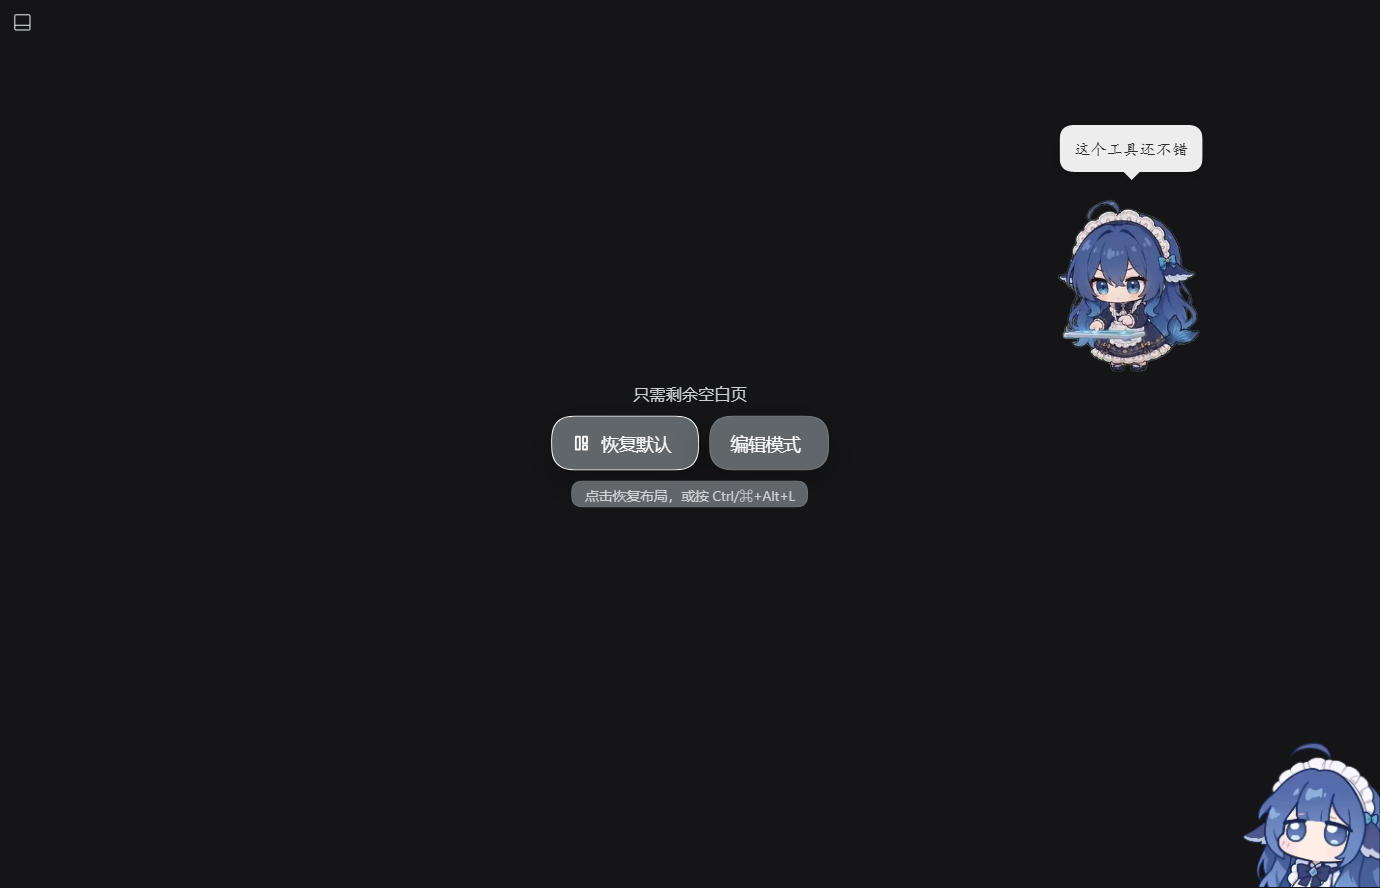
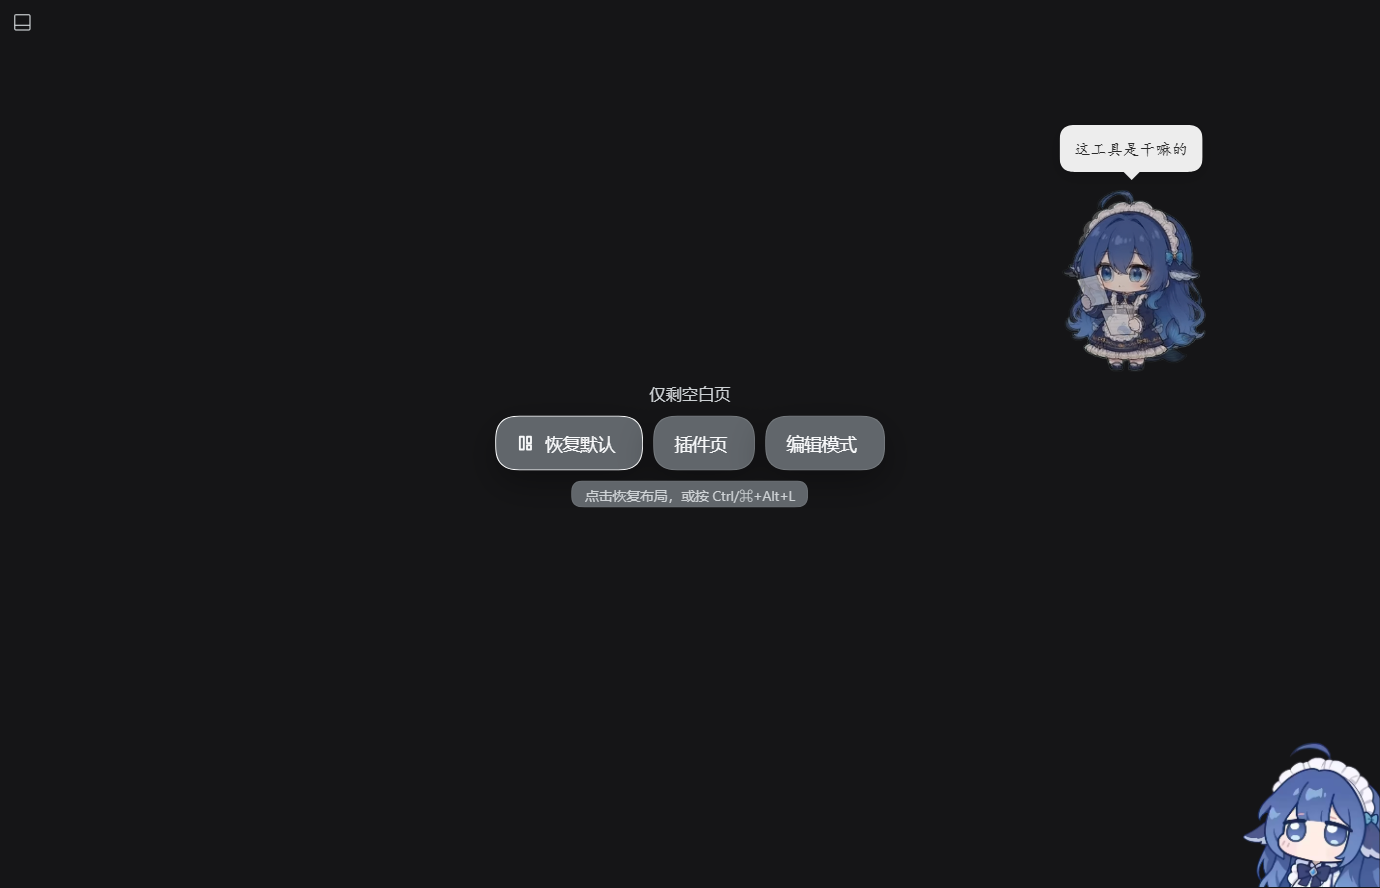
feat(dsh-layout): 空白页恢复入口改为 恢复默认/插件页/编辑模式 三枚并列
- 「插件页」先释放 hideCenter 再切面板，避免插件详情页所在中栏仍隐藏
- 空白页进入编辑模式时工具栏提示「当前无可见区域可拖拽」
- 坐标命中兜底改为遍历 [data-dshl-button] 直接 click，三枚按钮共用一套兜底
- 文档与空白页截图更新，版本 1.2.1

Changed region(s): [[0.3428, 0.4257, 0.6543, 0.5473], [0.7478, 0.2128, 0.8725, 0.4257], [0.779, 0.152, 0.8725, 0.1824]]

diff --git a/client.js b/client.js
@@ -73,6 +73,7 @@ window.__ModuleLoader__.load({
       shortcutHint: '快捷键：Ctrl/⌘+Alt+L 打开编辑浮层；再加 Shift 直接恢复默认布局。',
       offsetClamped: '偏移会自动限制，保证设置面板始终留在屏幕内。',
       blankHint: '点击恢复布局，或按 Ctrl/⌘+Alt+L',
+      nothingToDrag: '当前没有可见区域可拖拽，用预设或恢复默认',
       showAll: '显示全部',
       launcherOnBlank: '仅剩空白页',
     };
@@ -143,6 +144,7 @@ window.__ModuleLoader__.load({
       shortcutHint: 'Shortcuts: Ctrl/⌘+Alt+L opens the edit overlay; add Shift to restore the default layout.',
       offsetClamped: 'Offsets are clipped so the settings panel always stays on screen.',
       blankHint: 'Click to restore the layout, or press Ctrl/⌘+Alt+L',
+      nothingToDrag: 'No visible region to drag; use a preset or restore defaults',
       showAll: 'Show all',
       launcherOnBlank: 'Blank page',
     };
@@ -1264,23 +1266,19 @@ window.__ModuleLoader__.load({
         return () => window.removeEventListener('keydown', onKeyDown, true);
       }, [ui.editing]);
 
-      // 兜底点击通道：即使恢复按钮被 pointer-events/遮挡问题吃掉，按坐标命中同样能打开浮层
+      // 兜底点击通道：即使按钮被 pointer-events/遮挡问题吃掉，按坐标命中同样能触发
       React.useEffect(() => {
         const hitLauncher = (event) => {
           if (event.button !== 0 || event.defaultPrevented) return;
-          const launcher = document.querySelector('[data-dshl-launcher]');
-          if (launcher === null) return;
-          const rect = launcher.getBoundingClientRect();
-          if (event.clientX < rect.left || event.clientX > rect.right || event.clientY < rect.top || event.clientY > rect.bottom) return;
-          event.preventDefault();
-          event.stopPropagation();
-          // 空白页上的按钮直接恢复默认；其余情况打开编辑浮层（与按钮自身点击语义一致）
-          if (launcher.getAttribute('data-action') === 'reset') {
-            replaceConfig(null);
-            setEditing(false);
+          const buttons = [...document.querySelectorAll('[data-dshl-button]')];
+          for (const button of buttons) {
+            const rect = button.getBoundingClientRect();
+            if (event.clientX < rect.left || event.clientX > rect.right || event.clientY < rect.top || event.clientY > rect.bottom) continue;
+            event.preventDefault();
+            event.stopPropagation();
+            button.click();
             return;
           }
-          setEditing(true);
         };
         document.addEventListener('pointerdown', hitLauncher, true);
         document.addEventListener('mousedown', hitLauncher, true);
@@ -1333,7 +1331,11 @@ window.__ModuleLoader__.load({
         };
       }
       const placement = placementRef.current.value;
+      // 打开插件页：中栏被藏起来时先放出来，否则切过去也是空白
       const openPlugins = () => {
+        if (snapshot.config.columns.hideCenter) {
+          updateConfig((draft) => { draft.columns.hideCenter = false; });
+        }
         const layout = ctx !== null && ctx !== undefined && typeof ctx.get === 'function' ? ctx.get('layout') : undefined;
         if (layout === null || layout === undefined || typeof layout.selectPanel !== 'function') return;
         try {
@@ -1406,6 +1408,7 @@ window.__ModuleLoader__.load({
           style: { left: rect.left, top: rect.top, width: rect.width, height: rect.height },
         }, h('span', { className: 'dshl-editTag' }, labels[region] ?? region)))
         : null;
+      const visibleRegionCount = Object.keys(bounds.regions).length;
       const toolbar = ui.editing
         ? h('div', { className: 'dshl-toolbar' },
           h('span', { className: 'dshl-toolbarTitle' }, t('editLayer')),
@@ -1423,9 +1426,21 @@ window.__ModuleLoader__.load({
           }, label)),
           h('button', { type: 'button', className: 'dshl-btn', onClick: openPlugins }, t('openPlugins')),
           h('button', { type: 'button', className: 'dshl-btn', onClick: () => replaceConfig(null) }, t('reset')),
-          h('span', { className: 'dshl-itemSub' }, `${Math.round(config.columns.sidebarWidth)} / ${Math.round(config.columns.rightbarWidth)}`),
+          visibleRegionCount === 0
+            ? h('span', { className: 'dshl-itemSub' }, t('nothingToDrag'))
+            : h('span', { className: 'dshl-itemSub' }, `${Math.round(config.columns.sidebarWidth)} / ${Math.round(config.columns.rightbarWidth)}`),
           h('button', { type: 'button', className: 'dshl-btn', 'data-primary': 'true', onClick: () => setEditing(false) }, t('done')))
         : null;
+      // 恢复入口的按钮组：自由模式只有一枚「布局」；空白模式并排放 恢复默认 / 插件页 / 编辑模式
+      const launcherActions = placement === null
+        ? []
+        : placement.mode === 'blank'
+          ? [
+            { key: 'reset', label: t('reset'), iconSize: 17, primary: true, run: () => { replaceConfig(null); setEditing(false); } },
+            { key: 'plugins', label: t('openPlugins'), primary: false, run: openPlugins },
+            { key: 'edit', label: t('editing'), primary: false, run: () => setEditing(true) },
+          ]
+          : [{ key: 'edit', label: t('title'), iconSize: 14, primary: false, run: () => setEditing(true) }];
       const launcher = risk && placement !== null
         ? h('div', {
           className: 'dshl-launcherDock',
@@ -1437,23 +1452,18 @@ window.__ModuleLoader__.load({
         },
         placement.mode === 'blank' ? h('span', { className: 'dshl-launcherQuestion' }, t('launcherOnBlank')) : null,
         h('div', { className: 'dshl-launcherRow' },
-          h('button', {
+          ...launcherActions.map((action) => h('button', {
+            key: action.key,
             type: 'button',
-            className: 'dshl-launcher',
-            'data-dshl-launcher': '',
-            'data-action': placement.mode === 'blank' ? 'reset' : 'edit',
+            className: action.primary ? 'dshl-launcher' : 'dshl-launcher dshl-launcherGhost',
+            'data-dshl-button': action.key,
+            'data-dshl-launcher': action.key === 'edit' && placement.mode === 'free' ? '' : undefined,
             style: { pointerEvents: 'auto' },
-            title: t('recoveryHint'),
-            onClick: placement.mode === 'blank' ? () => { replaceConfig(null); setEditing(false); } : () => setEditing(true),
-          }, icon(ICON_LAYOUT, placement.mode === 'blank' ? 17 : 14), h('span', null, placement.mode === 'blank' ? t('reset') : t('title'))),
-          placement.mode === 'blank'
-            ? h('button', {
-              type: 'button',
-              className: 'dshl-launcher dshl-launcherGhost',
-              style: { pointerEvents: 'auto' },
-              onClick: () => setEditing(true),
-            }, h('span', null, t('editing')))
-            : null),
+            title: action.key === 'edit' && placement.mode === 'free' ? t('recoveryHint') : undefined,
+            onClick: action.run,
+          }, action.key === 'edit' && placement.mode === 'free' ? icon(ICON_LAYOUT, 14) : null,
+            action.key === 'reset' ? icon(ICON_LAYOUT, 17) : null,
+            h('span', null, action.label)))),
         placement.mode === 'blank' ? h('span', { className: 'dshl-launcherHint' }, t('blankHint')) : null)
         : null;
       return h('div', { className: 'dshl-editLayer' }, boxes, handles, launcher, toolbar);

diff --git a/docs/details/架构/README.md b/docs/details/架构/README.md
@@ -43,10 +43,10 @@ flowchart LR
 flowchart TD
   A[危险配置生效] --> B{是否还有可见区域}
   B -- 有 --> C[自由模式：探测留白后随机落点]
-  B -- 三栏全隐 --> D[空白模式：屏幕正中给恢复默认 + 编辑模式]
+  B -- 三栏全隐 --> D[空白模式：屏幕正中给 恢复默认 / 插件页 / 编辑模式]
   C -- 探测失败 --> E[角落模式：左下角固定位]
   C --> F[点击打开编辑浮层]
-  D --> G[点击恢复默认 / 进入编辑模式]
+  D --> G[恢复默认 / 打开插件页（自动放出会话区）/ 进入编辑模式]
   E --> F
   H[Ctrl/Alt+L] --> F
   I[Ctrl/Alt/Shift+L] --> J[直接恢复默认]
@@ -56,7 +56,7 @@ flowchart TD
 ```
 
 - 恢复入口的落点**不是固定位置**：自由模式会枚举可见区域内的候选点，用 `elementFromPoint` 采样排除可交互元素，再在「留白最充裕的一批」里随机取一个；随机盐包含配置指纹与本次模块加载 id，所以同一次会话稳定、下次打开可能换地方。
-- 空白模式把入口放在屏幕正中：这是最后一道「用户键盘失灵」的兜底，必须一眼可见、不必寻找。
+- 空白模式把入口放在屏幕正中：这是最后一道「用户键盘失灵」的兜底，必须一眼可见、不必寻找。三枚按钮各自独立：恢复默认（回到宿主默认）、插件页（切到插件面板并自动放出被隐藏的会话区，因为插件页渲染在 main 面板里）、编辑模式（打开浮层，空白页下浮层无区域可框，工具条会提示「当前没有可见区域可拖拽」）。
 - 快捷键与哈希重置不依赖浮层组件渲染，属于最后兜底；因此即使编辑浮层出问题也能恢复。
 - 恢复按钮的点击还有一层不依赖样式的坐标命中兜底（document 捕获阶段监听 `pointerdown`/`mousedown`）。
 - 设置面板偏移在生成样式时按视口夹取，面板不可能被配置到屏幕外。

diff --git a/docs/plans/2026-11-08-布局插件.md b/docs/plans/2026-11-08-布局插件.md
@@ -66,6 +66,17 @@ status: 执行中
 
 已验证：只剩会话区时按钮落在会话区留白处（逐点扫描按钮矩形，压住可交互元素 0 处）；三栏全隐时进入空白模式，按钮组精确居中（中心 552,355 = 视口中心）；空白页「恢复默认」恢复全部栏位、「编辑模式」进入浮层而不改配置；同一会话内落点稳定，刷新后换位置。
 
+## 第五轮：空白页恢复入口按钮组（2026-11-08）
+
+需求：空白页时不要只给「恢复默认 / 编辑模式」，把「插件页」也并排放上去，而不是替换掉某一枚。
+
+- 空白模式改为三枚并列按钮：恢复默认 / 插件页 / 编辑模式。
+- 「插件页」先释放 `hideCenter` 再切面板，否则插件详情页所在的 `main` 面板仍是隐藏的，切过去照样空白；侧栏仍隐藏也不影响（面板切换走 `ctx.layout`，不依赖侧栏点击）。
+- 空白页进入编辑模式时工具栏提示「当前没有可见区域可拖拽」，说明为什么没有框和手柄。
+- 坐标命中兜底改为遍历所有 `[data-dshl-button]` 并直接 `click()`，三枚按钮共用一套兜底，不再需要按 `data-action` 分支。
+
+已验证：空白页三枚按钮精确居中（中心 552,355 = 视口中心）；点「插件页」后 `hideCenter` 变 false、中栏 display:flex、main 面板显示插件页、入口切换为自由模式；点「编辑模式」进入浮层但不改配置（`enabled` 与 `hideCenter` 保持原值）；Esc 可退出。
+
 ## 说明
 
 - v1 只覆盖宽度 ≥768px 的三栏几何；窄屏抽屉、侧栏折叠态沿用宿主默认。

diff --git a/docs/details/注释/布局引擎.md b/docs/details/注释/布局引擎.md
@@ -79,7 +79,9 @@
 - **采样上限**：候选点最多探 220 个，避免探测本身造成卡顿（区域大时按等距抽样保留空间分布）。
 - **延迟复探**：首帧时会话/面板还在骨架或空态，探到的位置可能马上被内容覆盖；挂载后 320ms 起再复探 3 次（递增 350ms），保证以渲染完成后的真实布局为准。
 - **兜底**：一点留白都探不到 → `corner` 模式退回左下角固定位，绝不让入口消失。
-- **空白模式**：四个区域全部不可见时，屏幕正中给「恢复默认」+「编辑模式」+ 快捷键提示；此时不存在「空位」概念，位置必须确定且醒目。
+- **空白模式**：四个区域全部不可见时，屏幕正中给「恢复默认 / 插件页 / 编辑模式」三枚按钮 + 快捷键提示；此时不存在「空位」概念，位置必须确定且醒目。
+  - 「插件页」不是简单切面板：插件详情页渲染在 `main` 面板里，而空白模式意味着 `hideCenter` 为真，直接切过去只会得到又一片空白。所以它先释放 `hideCenter`，再 `ctx.layout.selectPanel('plugins')`。
+  - 「编辑模式」在空白页确实没有区域可框（区域框与列分隔条都基于可见区域），所以工具栏会显示「当前没有可见区域可拖拽，用预设或恢复默认」，而不是给一个看着像坏了的空浮层。
 
 ## 配置生命周期
 

diff --git a/docs/index/README.md b/docs/index/README.md
@@ -4,7 +4,7 @@
 
 | 状态 | 文档 | 摘要 | 链接 |
 | --- | --- | --- | --- |
-| 执行中 | 布局插件 | v1 已完成并验证；二轮补恢复通道，三轮修恢复按钮 pointer-events，四轮实现按钮落点引擎（随机留白 / 空白页居中 / 角落兜底）并支持隐藏会话区；待真机复测 | [2026-11-08-布局插件.md](../plans/2026-11-08-布局插件.md) |
+| 执行中 | 布局插件 | v1 已验证；二轮补恢复通道，三轮修按钮 pointer-events，四轮实现落点引擎（随机留白/空白页居中/角落兜底）并支持隐藏会话区，五轮把「插件页」并入空白页按钮组；待真机复测 | [2026-11-08-布局插件.md](../plans/2026-11-08-布局插件.md) |
 | 现行 | 插件架构 | Host 仅占位，Client 负责全部界面；DOM 注解器 + CSS 覆盖引擎 + 两个插槽注册；恢复通道独立于被改界面 | [README.md](../details/架构/README.md) |
 | 现行 | 布局引擎 | 为什么用 CSS 覆盖；注解器选择器、状态门控、配置校验与持久化；不可恢复状态的判定与多层兜底 | [布局引擎.md](../details/注释/布局引擎.md) |
 | — | 验证截图 | Web 客户端实拍：编辑区、编辑模式、设置面板、右栏宽度、左栏右置、隐藏侧栏后的恢复入口 | [截图/](../details/截图/) |

diff --git a/docs/details/截图/README.md b/docs/details/截图/README.md
@@ -13,4 +13,4 @@
 | [05-左栏右置.png](05-左栏右置.png) | 三栏顺序改为「右栏 / 会话区 / 左栏」：左栏整列移动到右侧，导航照常可用 |
 | [06-隐藏侧栏后的恢复入口与工具条.png](06-隐藏侧栏后的恢复入口与工具条.png) | 隐藏左侧栏后：恢复入口出现在界面留白处，点开出现编辑浮层工具条（含「插件页」「恢复默认」） |
 | [07-恢复按钮随机落在留白处.png](07-恢复按钮随机落在留白处.png) | 只剩会话区时：「布局」小按钮落在会话区的空白位置（逐点检测不压住任何可交互元素），换一次加载会换位置 |
-| [08-仅剩空白页时的中央恢复入口.png](08-仅剩空白页时的中央恢复入口.png) | 三栏全部隐藏后：屏幕正中给「恢复默认」+「编辑模式」两枚按钮与快捷键提示，作为键盘失灵时的最后兜底 |
+| [08-仅剩空白页时的中央恢复入口.png](08-仅剩空白页时的中央恢复入口.png) | 三栏全部隐藏后：屏幕正中并排「恢复默认 / 插件页 / 编辑模式」三枚按钮与快捷键提示，作为键盘失灵时的最后兜底 |
